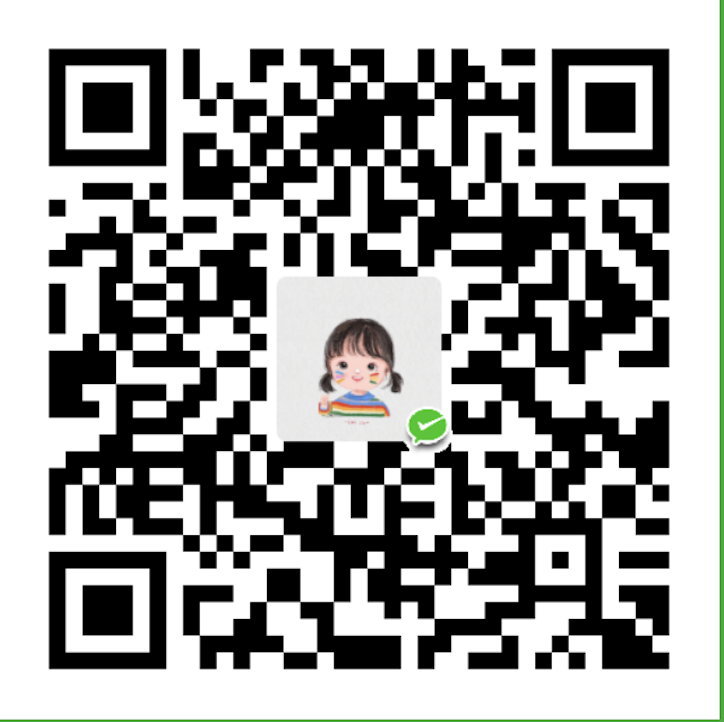
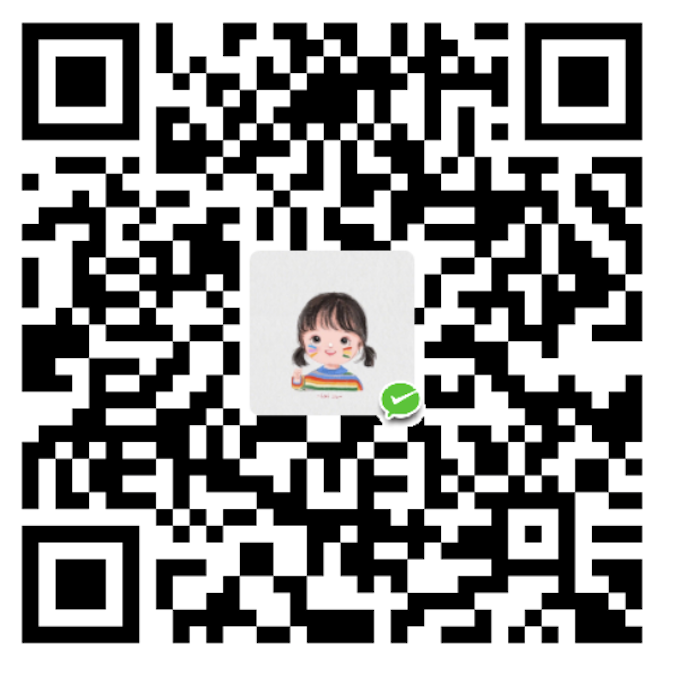
Site updated: 2019-11-18 11:19:42

diff --git a/donate/index.html b/donate/index.html
@@ -410,7 +410,7 @@
     var MainBox = $('#MainBox');
     var BTCQR = '/images/donate/BTCQR.png'; // 二维码路径
     var AliPayQR  = 'https://cdn.jsdelivr.net/gh/GuoSakura/GuoSakura.github.io@v1.7/images/donate/AliPayQR.png';
-    var WeChanQR  = 'https://cdn.jsdelivr.net/gh/GuoSakura/GuoSakura.github.io@v1.7undefined';
+    var WeChanQR  = 'https://cdn.jsdelivr.net/gh/GuoSakura/GuoSakura.github.io@v1.7/images/donate/WeChanQR.png';
 
     function showQR(QR) {
       if (QR) {
